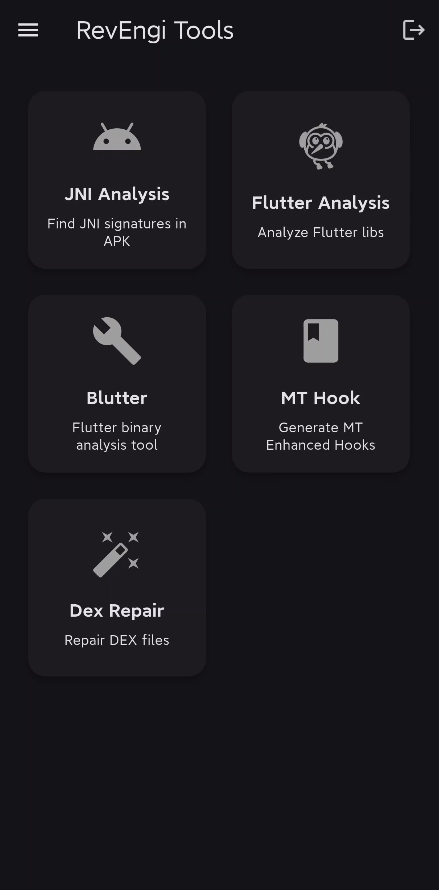
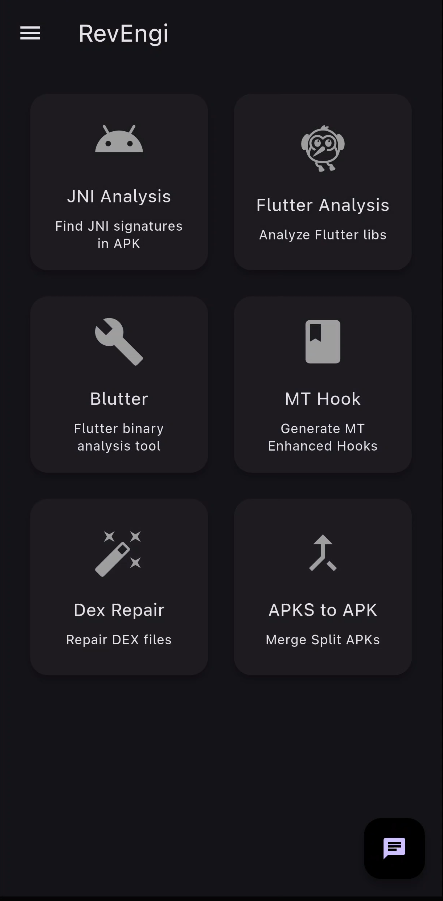
update fastlane info & ss

diff --git a/README.md b/README.md
@@ -28,6 +28,7 @@ RevEngi App encompasses a variety of functionalities, including:
 *   **Blutter:** A dedicated tool for in-depth analysis of Flutter binaries.
 *   **MT Hook:** Generate MT Enhanced Hooks for advanced instrumentation and modification.
 *   **Dex Repair:** Repair corrupted DEX files to salvage and analyze application code.
+*   **Extract/View APPs:** Extract APK and view Apps informations like package name, version, signature and more.
 *   **Smali Grammar Reference:** Quick & Advanced access to Smali instruction set like their opcode, format, and description for code analysis and manipulation. Examples are also provided where applicable.
 *   **Local LLM:** On-Device AI chat with Llama, Qwen, Gemma & more with chat history support. Your data stays on your device. Customize `baseUrl` to your ollama instance for remote access.
 *   **Theme Customization:** Offers light, dark, and system-based theme options.
@@ -61,13 +62,13 @@ You can verify our builds in two ways:
 
 ## Screenshots
 
-| Splash                                                                   | Home                                                                   | Profile                                                                   |
-| ------------------------------------------------------------------------ | ---------------------------------------------------------------------- | ------------------------------------------------------------------------- |
-| ![Splash](fastlane/metadata/android/en-US/images/phoneScreenshots/1.png) | ![Home](fastlane/metadata/android/en-US/images/phoneScreenshots/2.png) | ![Profile](fastlane/metadata/android/en-US/images/phoneScreenshots/4.png) |
+| Splash                                                                   | Home                                                                   | Profile                                                                   | Extract APK                                                                  | App Info                                                                   |
+| ------------------------------------------------------------------------ | ---------------------------------------------------------------------- | ------------------------------------------------------------------------- | ---------------------------------------------------------------------------- | -------------------------------------------------------------------------- |
+| ![Splash](fastlane/metadata/android/en-US/images/phoneScreenshots/1.png) | ![Home](fastlane/metadata/android/en-US/images/phoneScreenshots/2.png) | ![Profile](fastlane/metadata/android/en-US/images/phoneScreenshots/4.png) | ![ExtractAPK](fastlane/metadata/android/en-US/images/phoneScreenshots/9.png) | ![AppInfo](fastlane/metadata/android/en-US/images/phoneScreenshots/10.png) |
 
-| Smali Grammar                                                                   | SideBar                                                                             | AI Chat                                                                   | Manage Models                                                                   |
-| ------------------------------------------------------------------------------- | ----------------------------------------------------------------------------------- | ------------------------------------------------------------------------- | ------------------------------------------------------------------------------- |
-| ![Smali Grammar](fastlane/metadata/android/en-US/images/phoneScreenshots/6.png) | ![Navigation Drawer](fastlane/metadata/android/en-US/images/phoneScreenshots/5.png) | ![AI Chat](fastlane/metadata/android/en-US/images/phoneScreenshots/7.png) | ![Manage Models](fastlane/metadata/android/en-US/images/phoneScreenshots/8.png) |
+| Smali Grammar                                                                   | SideBar                                                                             | AI Chat                                                                   | Manage Models                                                                   | Signature Info                                                              |
+| ------------------------------------------------------------------------------- | ----------------------------------------------------------------------------------- | ------------------------------------------------------------------------- | ------------------------------------------------------------------------------- | --------------------------------------------------------------------------- |
+| ![Smali Grammar](fastlane/metadata/android/en-US/images/phoneScreenshots/6.png) | ![Navigation Drawer](fastlane/metadata/android/en-US/images/phoneScreenshots/5.png) | ![AI Chat](fastlane/metadata/android/en-US/images/phoneScreenshots/7.png) | ![Manage Models](fastlane/metadata/android/en-US/images/phoneScreenshots/8.png) | ![SignInfo](fastlane/metadata/android/en-US/images/phoneScreenshots/11.png) |
 
 ## Roadmap
 
